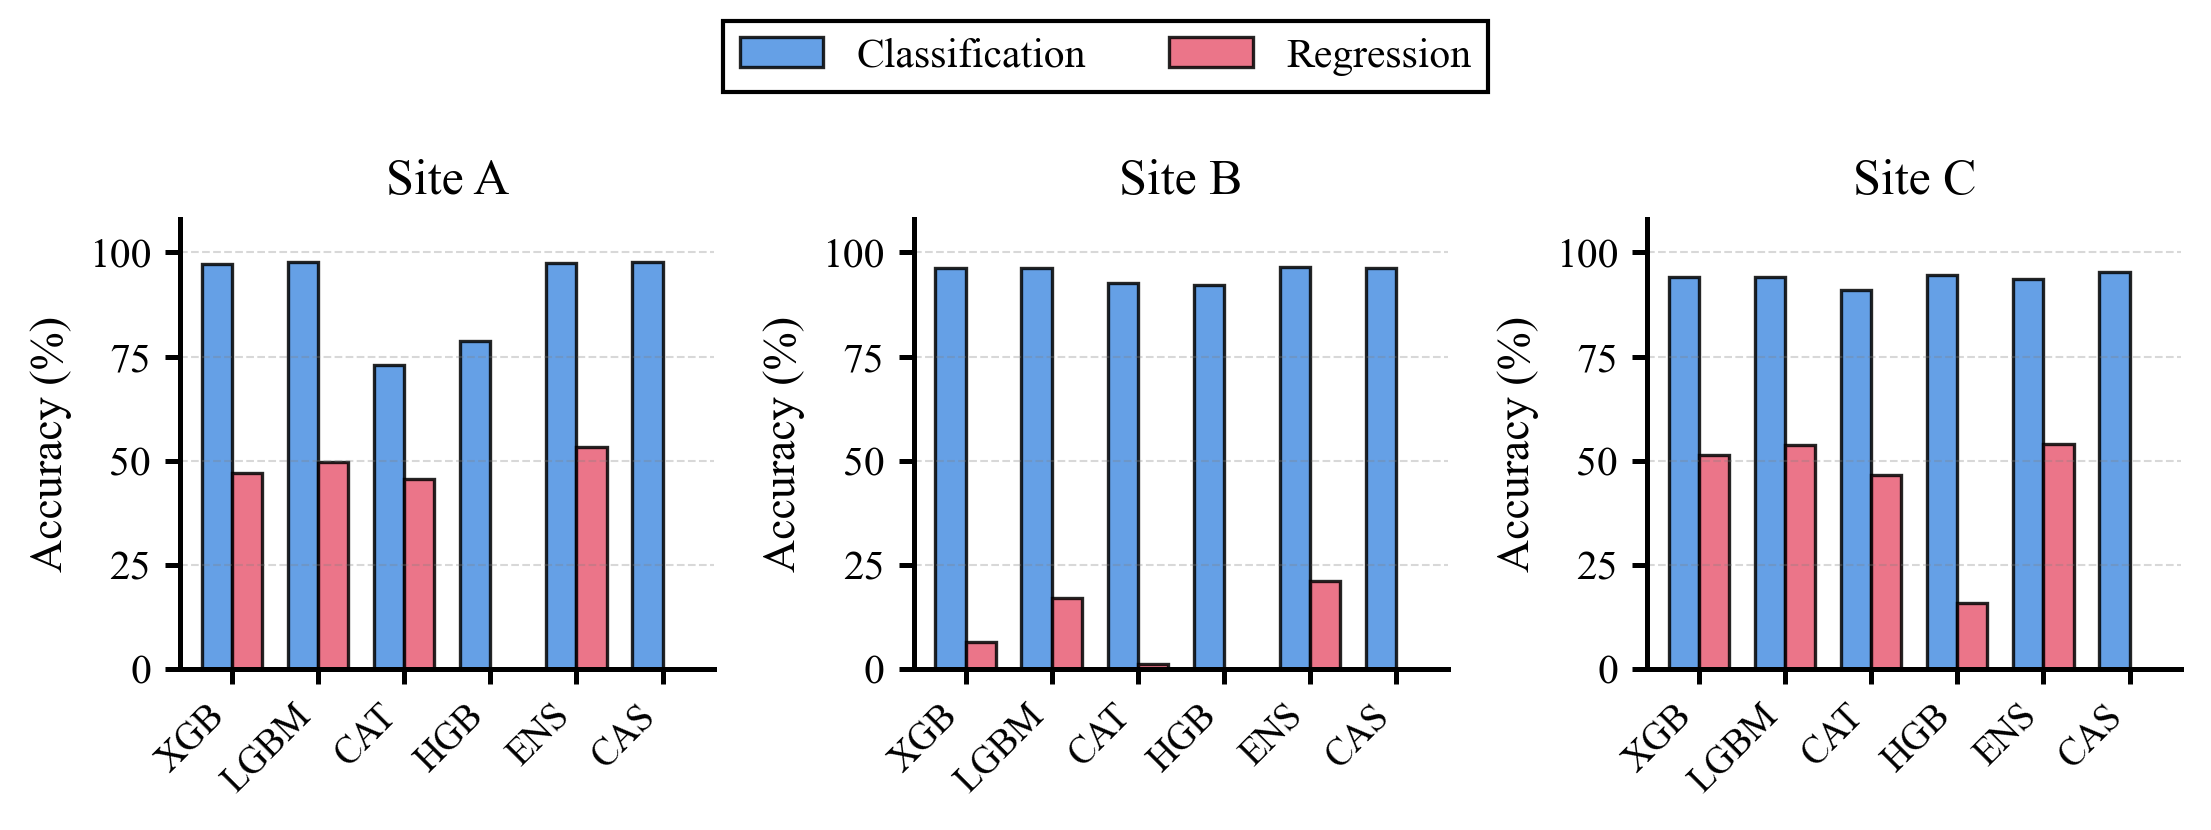
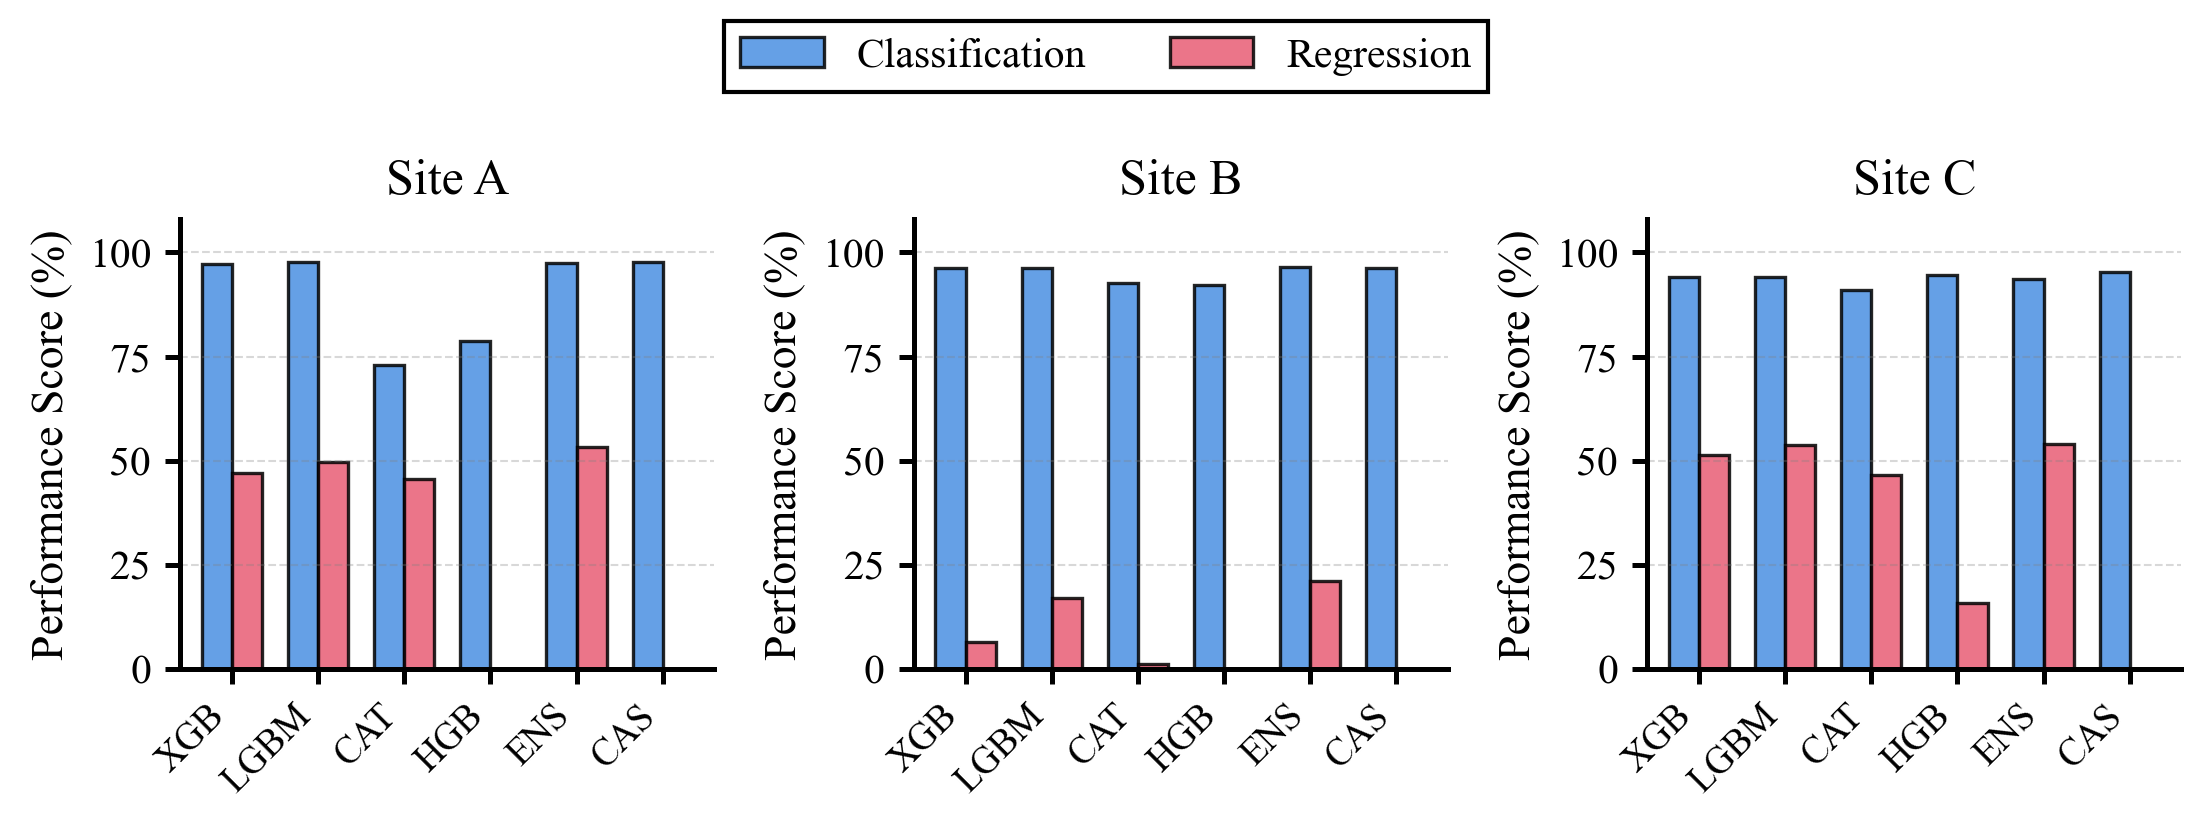
[update]: change ylabel in performance plot from "Accuracy (%)" to "Performance Score (%)" and update accuracy.png

diff --git a/analyze/plot_performance.py b/analyze/plot_performance.py
@@ -114,7 +114,7 @@ def plot_accuracy(results_dir="../results"):
         ax.set_xticklabels(algos, rotation=45, ha="right", fontsize=9)
         ax.set_xlim([-0.6, len(algos) - 0.4])
         ax.set_ylim([0, 108])
-        ax.set_ylabel("Accuracy (%)", fontsize=11)
+        ax.set_ylabel("Performance Score (%)", fontsize=11)
         setup_ax(ax, site)
 
     handles, labels = axes[0].get_legend_handles_labels()
